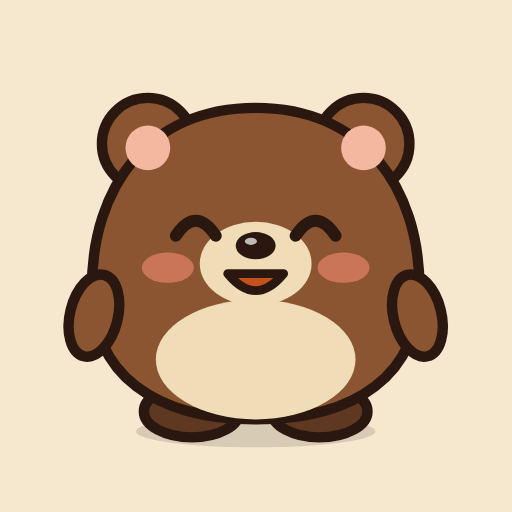
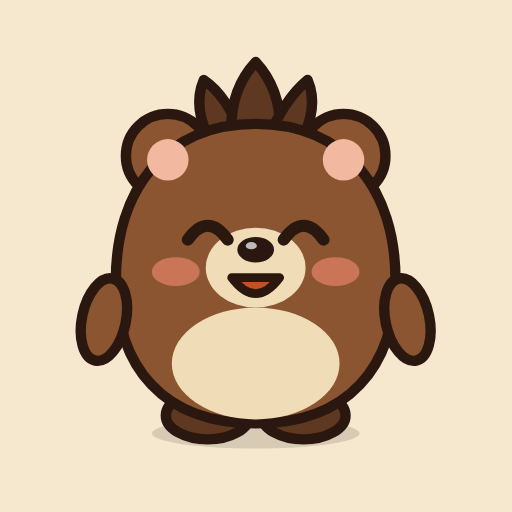
くまトイを少しシュッとした縦長の体に変え、頭にとさか風の毛を付ける(アイコンも作り直し)

Changed region(s): [[0.125, 0.0938, 0.875, 0.875]]

diff --git a/js/bear.js b/js/bear.js
@@ -1,34 +1,38 @@
-/* くまトイ: ヒグマのマスコット(ますくん・だるま と同じく、丸い体 + お腹のマーク + 表情の切り替え)
+/* くまトイ: ヒグマのマスコット(ますくん・だるま と同じく、体の形 + 表情の切り替え)
+   少しシュッとした縦長の体と、頭のとさか風の毛(3本)が特徴。
    mood: 'normal' | 'happy' | 'worried' | 'sleep'(true は worried)。ゆれ・まばたきは CSS(.bear) */
 function bearSvg(size,mood){
   const m=mood===true?'worried':(mood||'normal');
   const INK='#2a1810', FUR='#8a5530', FUR_D='#5e3820', CREAM='#f1dcb8';
   const eyes={
-    normal:`<g class="eyes"><ellipse cx="35" cy="43" rx="4.2" ry="5" fill="${INK}"/><ellipse cx="65" cy="43" rx="4.2" ry="5" fill="${INK}"/><circle cx="36.4" cy="41" r="1.6" fill="#fff"/><circle cx="66.4" cy="41" r="1.6" fill="#fff"/></g>`,
-    happy:`<path d="M30 45 Q35 37.5 40 45M60 45 Q65 37.5 70 45" fill="none" stroke="${INK}" stroke-width="3" stroke-linecap="round"/>`,
-    sleep:`<path d="M30 43 Q35 47 40 43M60 43 Q65 47 70 43" fill="none" stroke="${INK}" stroke-width="3" stroke-linecap="round"/>`,
+    normal:`<g class="eyes"><ellipse cx="38" cy="44" rx="3.8" ry="4.8" fill="${INK}"/><ellipse cx="62" cy="44" rx="3.8" ry="4.8" fill="${INK}"/><circle cx="39.3" cy="42" r="1.5" fill="#fff"/><circle cx="63.3" cy="42" r="1.5" fill="#fff"/></g>`,
+    happy:`<path d="M33 46 Q38 39 43 46M57 46 Q62 39 67 46" fill="none" stroke="${INK}" stroke-width="3" stroke-linecap="round"/>`,
+    sleep:`<path d="M33 44 Q38 48 43 44M57 44 Q62 48 67 44" fill="none" stroke="${INK}" stroke-width="3" stroke-linecap="round"/>`,
   };
   eyes.worried=eyes.normal;
-  const brows=m==='worried'?`<path d="M29 35 L41 38M71 35 L59 38" stroke="${INK}" stroke-width="2.6" stroke-linecap="round"/>`
-    :m==='normal'?`<path d="M30 35.5 Q35 33 40 35M60 35 Q65 33 70 35.5" fill="none" stroke="${FUR_D}" stroke-width="2.4" stroke-linecap="round"/>`:'';
-  const mouth=m==='worried'?`<path d="M44.5 59 Q50 54.5 55.5 59" fill="none" stroke="${INK}" stroke-width="2.4" stroke-linecap="round"/>`
-    :m==='happy'?`<path d="M43 54.5 Q50 63 57 54.5Z" fill="#c4521f" stroke="${INK}" stroke-width="2.2" stroke-linejoin="round"/>`
-    :`<path d="M43 55 Q46.5 59.5 50 54.8 Q53.5 59.5 57 55" fill="none" stroke="${INK}" stroke-width="2.4" stroke-linecap="round" stroke-linejoin="round"/>`;
-  const extra=m==='worried'?'<path d="M78 30c3 4 4 7 4 9a4 4 0 0 1-8 0c0-2 1-5 4-9z" fill="#8fd3f4" stroke="#4aa3d0" stroke-width="1"/>'
-    :m==='sleep'?`<g fill="${FUR_D}" font-family="sans-serif" font-weight="800"><text x="76" y="26" font-size="10">z</text><text x="83" y="17" font-size="8">z</text></g>`:'';
+  const brows=m==='worried'?`<path d="M32 36 L43 39M68 36 L57 39" stroke="${INK}" stroke-width="2.6" stroke-linecap="round"/>`
+    :m==='normal'?`<path d="M33 36.5 Q38 34 43 36M57 36 Q62 34 67 36.5" fill="none" stroke="${FUR_D}" stroke-width="2.4" stroke-linecap="round"/>`:'';
+  const mouth=m==='worried'?`<path d="M45 60 Q50 55.5 55 60" fill="none" stroke="${INK}" stroke-width="2.4" stroke-linecap="round"/>`
+    :m==='happy'?`<path d="M44 55.5 Q50 63.5 56 55.5Z" fill="#c4521f" stroke="${INK}" stroke-width="2.2" stroke-linejoin="round"/>`
+    :`<path d="M44 56 Q47 60 50 55.8 Q53 60 56 56" fill="none" stroke="${INK}" stroke-width="2.4" stroke-linecap="round" stroke-linejoin="round"/>`;
+  const extra=m==='worried'?'<path d="M77 34c3 4 4 7 4 9a4 4 0 0 1-8 0c0-2 1-5 4-9z" fill="#8fd3f4" stroke="#4aa3d0" stroke-width="1"/>'
+    :m==='sleep'?`<g fill="${FUR_D}" font-family="sans-serif" font-weight="800"><text x="83" y="22" font-size="10">z</text><text x="90" y="12" font-size="8">z</text></g>`:'';
   return `<svg class="bear" width="${size}" height="${size}" viewBox="0 0 100 100" aria-hidden="true">
-<ellipse cx="50" cy="94" rx="30" ry="4" fill="#000" opacity=".12"/>
+<ellipse cx="50" cy="94.5" rx="26" ry="3.8" fill="#000" opacity=".12"/>
 <g stroke="${INK}" stroke-width="2.6" stroke-linejoin="round">
-<ellipse cx="34" cy="89" rx="12" ry="6.5" fill="${FUR_D}"/><ellipse cx="66" cy="89" rx="12" ry="6.5" fill="${FUR_D}"/>
-<circle cx="23" cy="22" r="11.5" fill="${FUR}"/><circle cx="77" cy="22" r="11.5" fill="${FUR}"/>
-<path d="M50 13C77 13 91 33 91 58 91 80 75 91 50 91 25 91 9 80 9 58 9 33 23 13 50 13Z" fill="${FUR}"/>
-<ellipse cx="9.5" cy="65" rx="6" ry="10.5" transform="rotate(14 9.5 65)" fill="${FUR}"/><ellipse cx="90.5" cy="65" rx="6" ry="10.5" transform="rotate(-14 90.5 65)" fill="${FUR}"/>
+<ellipse cx="38" cy="90" rx="10.5" ry="6" fill="${FUR_D}"/><ellipse cx="62" cy="90" rx="10.5" ry="6" fill="${FUR_D}"/>
+<circle cx="28" cy="25" r="10.5" fill="${FUR}"/><circle cx="72" cy="25" r="10.5" fill="${FUR}"/>
+<path d="M39 22Q34 13 37 6Q43 10 47 21Z" fill="${FUR_D}"/>
+<path d="M44 21Q43 9 50 1.5Q57 9 56 21Z" fill="${FUR_D}"/>
+<path d="M53 21Q57 11 63 6Q66 13 61 22Z" fill="${FUR_D}"/>
+<path d="M50 17C73 17 85 34 85 56 85 78 73 92 50 92 27 92 15 78 15 56 15 34 27 17 50 17Z" fill="${FUR}"/>
+<ellipse cx="12" cy="66" rx="5.5" ry="10.5" transform="rotate(12 12 66)" fill="${FUR}"/><ellipse cx="88" cy="66" rx="5.5" ry="10.5" transform="rotate(-12 88 66)" fill="${FUR}"/>
 </g>
-<circle cx="23" cy="23" r="5.6" fill="#f2b8a0"/><circle cx="77" cy="23" r="5.6" fill="#f2b8a0"/>
-<ellipse cx="50" cy="76" rx="25" ry="15" fill="${CREAM}"/>
-<ellipse cx="28" cy="53" rx="6.5" ry="3.8" fill="#ff8f7a" opacity=".55"/><ellipse cx="72" cy="53" rx="6.5" ry="3.8" fill="#ff8f7a" opacity=".55"/>
-<ellipse cx="50" cy="52" rx="14" ry="10.5" fill="${CREAM}"/>
-<ellipse cx="50" cy="47.5" rx="5" ry="3.4" fill="${INK}"/><ellipse cx="48.8" cy="46.4" rx="1.5" ry=".9" fill="#fff" opacity=".7"/>
+<circle cx="28" cy="26" r="5.2" fill="#f2b8a0"/><circle cx="72" cy="26" r="5.2" fill="#f2b8a0"/>
+<ellipse cx="50" cy="77" rx="21" ry="14" fill="${CREAM}"/>
+<ellipse cx="30" cy="54" rx="6" ry="3.6" fill="#ff8f7a" opacity=".55"/><ellipse cx="70" cy="54" rx="6" ry="3.6" fill="#ff8f7a" opacity=".55"/>
+<ellipse cx="50" cy="53" rx="12.5" ry="10" fill="${CREAM}"/>
+<ellipse cx="50" cy="48.5" rx="4.6" ry="3.2" fill="${INK}"/><ellipse cx="48.9" cy="47.5" rx="1.4" ry=".9" fill="#fff" opacity=".7"/>
 ${brows}${eyes[m]}${mouth}${extra}
 </svg>`;
 }

diff --git a/index.html b/index.html
@@ -9,8 +9,8 @@
 <meta name="theme-color" content="#1a1714" media="(prefers-color-scheme: dark)">
 <meta name="color-scheme" content="light dark">
 <link rel="manifest" href="manifest.webmanifest?v=861daa9a">
-<link rel="apple-touch-icon" href="apple-touch-icon.png?v=ee0adca4">
-<link rel="icon" href="icon-192.png?v=2eb7d8b0">
+<link rel="apple-touch-icon" href="apple-touch-icon.png?v=c14681ba">
+<link rel="icon" href="icon-192.png?v=46bdac1f">
 <meta name="apple-mobile-web-app-capable" content="yes">
 <meta name="mobile-web-app-capable" content="yes">
 <meta name="apple-mobile-web-app-status-bar-style" content="default">
@@ -58,7 +58,7 @@
 <script src="js/geo.js?v=1a5e67f5"></script>
 <script src="js/hours.js?v=00fea5ba"></script>
 <script src="js/icons.js?v=20d36588"></script>
-<script src="js/bear.js?v=abb4f48b"></script>
+<script src="js/bear.js?v=c9fc5fa9"></script>
 <script src="js/cloud.js?v=1c62d3ac"></script>
 <script src="js/map.js?v=79ed05f6"></script>
 <script src="js/settings.js?v=4cdccf97"></script>
